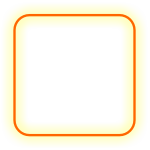
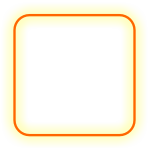
t

Changed region(s): [[0.0533, 0.72, 0.96, 0.96], [0.08, 0.08, 0.9067, 0.2133]]

diff --git a/Code/Assets/Scripts/Window/Forge/Panel_Stone.cs b/Code/Assets/Scripts/Window/Forge/Panel_Stone.cs
@@ -1,4 +1,5 @@
 using Game;
+using Newtonsoft.Json;
 using Sirenix.OdinInspector;
 using System.Collections.Generic;
 using System.Linq;
@@ -58,6 +59,7 @@ public class Panel_Stone : MonoBehaviour
 
         ShowForgeItem();
         ShowStoneMain();
+        ShowStone();
     }
 
     public void Init()
@@ -104,8 +106,9 @@ public class Panel_Stone : MonoBehaviour
         this.StoneId = 0;
 
         ShowForgeItem();
-        ShowStoneMain();
-        ShowStone();
+
+        mainList[MainIndex - 1].toggle.isOn = true;
+        //ShowStoneMain();
     }
 
     private void ShowForgeItem()
@@ -169,12 +172,12 @@ public class Panel_Stone : MonoBehaviour
         this.MainIndex = index;
 
         ShowStoneMain();
+        ShowStone();
     }
 
     private void ShowStoneMain()
     {
         this.Btn_OK.gameObject.SetActive(false);
-        this.Btn_Active.gameObject.SetActive(false);
 
         User user = GameProcessor.Inst.User;
         StoneRecord record = user.GetStoneRecord(SelectPosition);
@@ -185,11 +188,15 @@ public class Panel_Stone : MonoBehaviour
         {
             StoneSetConfig setConfig = StoneSetConfigCategory.Instance.Get(SelectPosition);
 
+            List<int> excludeList = record.GetExcludeStoneId(MainIndex);
+
+            Debug.Log("excludeList:" + JsonConvert.SerializeObject(excludeList));
+
             for (int i = 0; i < stoneList.Count; i++)
             {
                 StoneConfig stoneConfig = StoneConfigCategory.Instance.Get(i + 1);
 
-                if (setConfig.TypeList.Contains(stoneConfig.Type))
+                if (setConfig.TypeList.Contains(stoneConfig.Type) && !excludeList.Contains(stoneConfig.Id))
                 {
                     stoneList[i].toggle.interactable = true;
                     if (stoneId == 0)
@@ -329,6 +336,7 @@ public class Panel_Stone : MonoBehaviour
 
         record.AddCount();
 
+        ShowForgeItem();
         ShowStoneMain();
         ShowStone();
     }

diff --git a/Code/Assets/Scripts/Player/Data/StoneData.cs b/Code/Assets/Scripts/Player/Data/StoneData.cs
@@ -42,6 +42,11 @@ namespace Game
             return List[index].StoneId;
         }
 
+        public List<int> GetExcludeStoneId(int index)
+        {
+            return List.Where(m => m.Key != index).Select(m => m.Value.StoneId).ToList();
+        }
+
         public int GetStoneLevel(int index)
         {
             if (!List.ContainsKey(index))

diff --git a/Code/Assets/Scripts/Window/Forge/Stone_Item_Main.cs b/Code/Assets/Scripts/Window/Forge/Stone_Item_Main.cs
@@ -53,7 +53,7 @@ namespace Game
 
         public void Show()
         {
-            Debug.Log("Stone_Item_Main Show Id:" + StoneId);
+            Debug.Log("Stone_Item_Main Show Index:" + MainIndex);
 
 
             this.Txt_Level.gameObject.SetActive(false);
